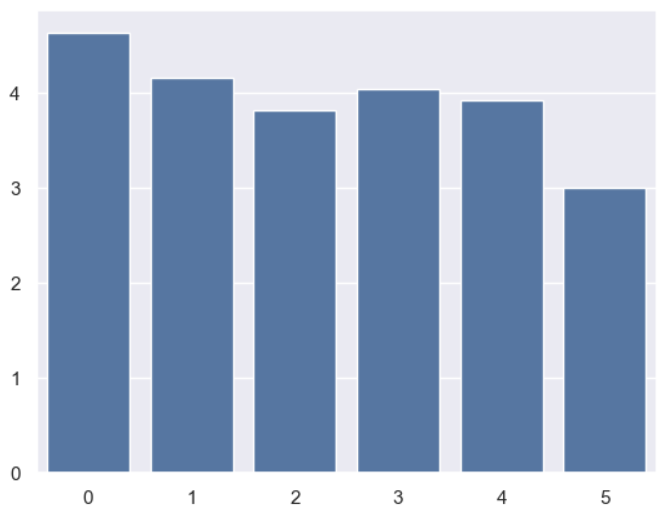
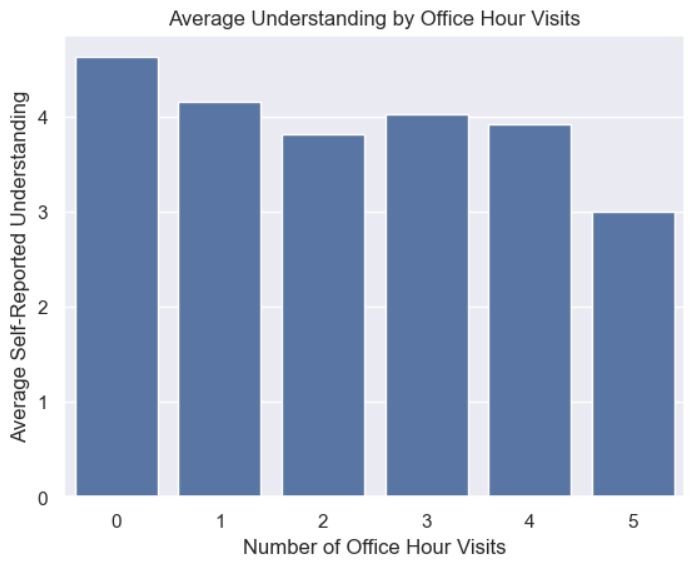
update 6, better graphs

Changed region(s): [[0.0, 0.0619, 0.988, 0.9903], [0.2395, 0.0, 0.8383, 0.0619], [0.0, 0.8975, 0.0299, 0.9284]]

diff --git a/index.md b/index.md
@@ -48,6 +48,4 @@ Analysis demonstrates while the available survey data and visualizations provide
 
 Instead, the observed trends suggest that office hours may be more reactive than preventative, serving students who are already struggling rather than directly increasing understanding across the board.
 
-This highlights the importance of interpreting data within its broader context and recognizing limitations such as skewed distributions and missing variables.
-
-Moving forward, a more controlled approach to data collection and analysis would be necessary to determine the true impact of office hours, but this initial exploration still provides a strong foundation for considering how course structures can better support student learning and engagement
+A more controlled approach to data collection and analysis would be necessary to find the true impact of office hours, but this initial analysis still provides a strong foundation for considering how course structures can better support student learning and engagement.
